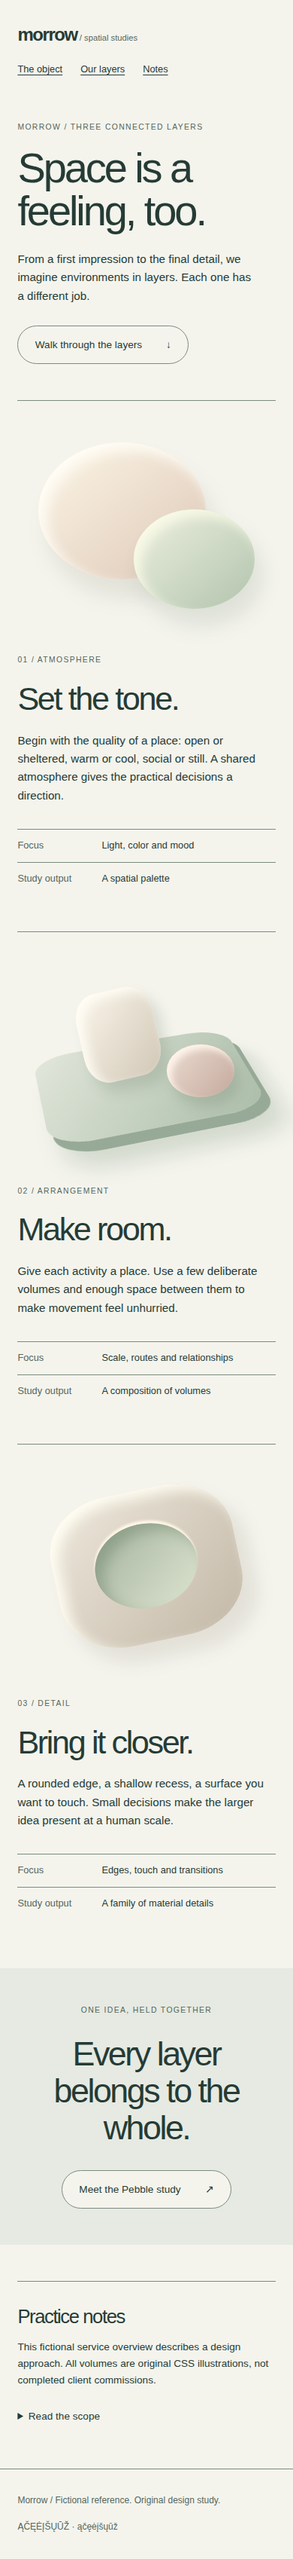
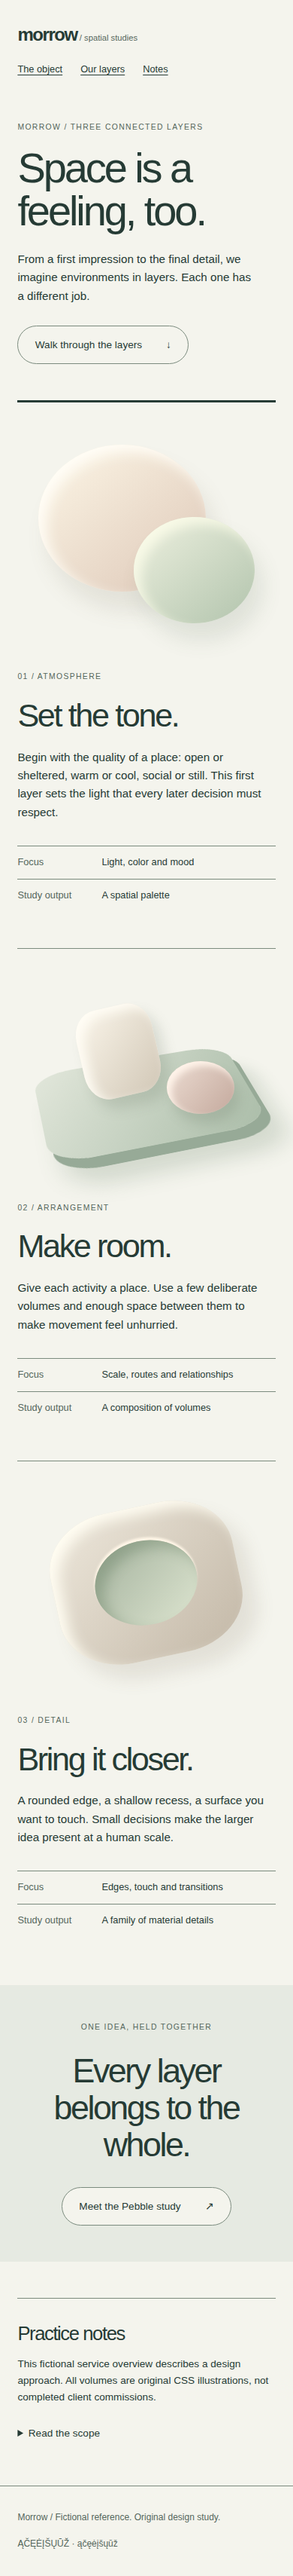
[S43] Pertvarka: Soft Spatial (#90)
* feat(S43): room light and indented layer staircase for soft-spatial

Claude-Session: https://claude.ai/code/session_01UNVqEgRscSKB9PdVUupPsp

* chore: regenerate canonical previews for soft-spatial

* docs(S43): evidence for soft-spatial redesign

Claude-Session: https://claude.ai/code/session_01UNVqEgRscSKB9PdVUupPsp

---------

diff --git a/styles/soft-spatial/reference/style.css b/styles/soft-spatial/reference/style.css
@@ -1,1 +1,1 @@
-*{box-sizing:border-box}html{scroll-behavior:smooth}body{margin:0;background:var(--color-background);color:var(--color-text);font:1rem/1.6 var(--font-body)}a{color:inherit;text-underline-offset:.25em}a:hover{color:var(--color-accent)}button,input,select{font:inherit}button,summary{cursor:pointer}button{color:var(--color-on-accent);background:var(--color-accent);border:1px solid var(--color-border);padding:.6rem 1rem}a,button,summary,input,select{touch-action:manipulation}:focus-visible{outline:3px solid var(--color-focus);outline-offset:4px}.skip{position:absolute;top:0;left:0;transform:translateY(-200%);padding:1rem;background:var(--color-background);z-index:99}.skip:focus{transform:none}h1,h2,h3,p,figure{margin:0}h1,h2,h3{font-family:var(--font-display);line-height:1.1;font-weight:400}img,svg{display:block;max-width:100%;height:auto}header,main,footer{min-width:0}nav{display:flex;gap:1.5rem;flex-wrap:wrap}details p{padding:1rem 0;max-width:65ch}summary{padding:.65rem 0}footer{display:flex;justify-content:space-between;gap:1rem;flex-wrap:wrap;padding:2rem 5vw;font-size:.75rem;color:var(--color-muted);border-top:1px solid var(--color-border)}@media(prefers-reduced-motion:reduce){html{scroll-behavior:auto}*,*::before,*::after{animation:none!important;transition:none!important}}header{display:flex;justify-content:space-between;align-items:center;gap:2rem;padding:2rem 5vw}.brand{font-size:1.5rem;letter-spacing:-.06em;font-weight:700;text-decoration:none}.brand span{font-size:.75rem;font-weight:400;letter-spacing:0;color:var(--color-muted)}nav{font-size:.85rem;gap:2rem}main{max-width:1500px;margin:auto}h1,h2{letter-spacing:-.055em}h1{font-size:clamp(3.5rem,6.3vw,6rem);line-height:1.02}h2{font-size:clamp(2.3rem,4vw,3.8rem);line-height:1.1}.eyebrow{font-size:.65rem;letter-spacing:.13em;color:var(--color-muted)}.pill{display:inline-flex;align-items:center;gap:2rem;border:1px solid var(--color-border);border-radius:2rem;padding:.85rem 1.4rem;text-decoration:none;font-size:.85rem;background:var(--color-background);color:var(--color-text)}.pill:hover{background:var(--color-surface)}.object-intro{display:grid;grid-template-columns:.9fr 1.3fr;gap:3rem;align-items:center;padding:4rem 5vw 3rem}.intro-copy h1{margin:1.3rem 0}.intro-copy>p:not(.eyebrow){max-width:34ch;font-size:1.05rem}.intro-copy .pill{margin-top:2rem}.object-stage{min-width:0;padding-top:1rem}.pebble{height:420px;position:relative;isolation:isolate;--shell:#eeeadf;--shade:#b7c6b7}.halo{position:absolute;width:85%;height:80%;left:8%;top:0;background:radial-gradient(ellipse,#e4e7d8 0%,transparent 70%);border-radius:50%}.stone{position:absolute;z-index:2;width:78%;height:61%;left:11%;top:15%;border-radius:49% 51% 44% 48%/49% 48% 52% 51%;background:linear-gradient(145deg,#fffef4 0%,var(--shell) 47%,#c9cdc0 85%);box-shadow:inset -15px -22px 24px #bac3b655,inset 12px 9px 22px #ffffffaa;transform:rotate(-12deg)}.stone:after{content:'';position:absolute;width:59%;height:51%;left:21%;top:19%;border-radius:50%;background:radial-gradient(ellipse at 60% 85%,#d4dec9 0%,#9cac98 58%,#728774 98%);box-shadow:inset 3px 14px 18px #536d5d55,0 -5px 5px #fffdf0,inset -5px -4px 10px #e7eddb}.shadow{position:absolute;width:66%;height:12%;left:19%;top:76%;background:#657866;opacity:.22;filter:blur(17px);border-radius:50%;transform:rotate(-9deg)}figcaption{display:flex;justify-content:space-between;gap:1rem;font-size:.65rem;color:var(--color-muted);padding:1.5rem 2rem}.form-notes{display:grid;grid-template-columns:1fr 1.2fr;gap:6rem;margin:4rem 5vw 6rem;padding-top:3rem;border-top:1px solid var(--color-border)}.form-notes h2{margin-top:1.5rem}.observations article{display:grid;grid-template-columns:2rem 1fr;gap:.3rem 1.5rem;padding:1.2rem 0}.observations span{font-size:.7rem;color:var(--color-muted)}.observations h3{font-size:1.3rem}.observations p{grid-column:2;font-size:.9rem;max-width:50ch;margin-top:.4rem}.material{display:grid;grid-template-columns:1.2fr 1fr;gap:5rem;align-items:center;padding:3rem 5vw 5rem}.material-window{height:320px;border-radius:50% 50% 45% 45%;position:relative;background:radial-gradient(ellipse,#e6e7de,transparent 70%)}.sample{position:absolute;width:45%;height:62%;border-radius:35%;box-shadow:inset 7px 7px 18px #ffffffbb,12px 25px 24px #57685822;transform:rotate(-18deg);background:linear-gradient(140deg,#e6eddf,#abbba7)}.sample-one{left:10%;top:10%}.sample-two{left:46%;top:31%;background:linear-gradient(140deg,#f2e0d7,#c7aca0);transform:rotate(13deg)}.material h2{margin:1.2rem 0}.material p:not(.eyebrow){max-width:42ch;font-size:.95rem}.material a{display:inline-block;margin-top:1.5rem;font-size:.85rem}.endnotes{display:grid;grid-template-columns:1fr 1.3fr;gap:4rem;margin:2rem 5vw 4rem;padding-top:2rem;border-top:1px solid var(--color-border)}.endnotes h2{font-size:1.6rem}.endnotes p,.endnotes details{font-size:.85rem;max-width:63ch}.endnotes details{margin-top:1rem}.layers-intro{padding:4rem 5vw 5rem;display:grid;grid-template-columns:1.3fr 1fr;gap:2rem 6rem;align-items:end}.layers-intro>.eyebrow{grid-column:1/-1}.layers-intro>div p{max-width:37ch}.layers-intro .pill{margin-top:1.7rem}.layer-index{margin:0 5vw}.layer{display:grid;grid-template-columns:1.2fr 1fr;gap:5rem;align-items:center;padding:3rem 0;border-top:1px solid var(--color-border)}.layer:nth-child(2) .layer-art{order:2}.layer-copy h2{margin:1.2rem 0}.layer-copy>p:not(.eyebrow){max-width:42ch;font-size:.95rem}dl{margin:2rem 0 0;font-size:.8rem}dl>div{display:grid;grid-template-columns:6rem 1fr;gap:1rem;padding:.7rem 0;border-top:1px solid var(--color-border)}dt{color:var(--color-muted)}dd{margin:0}.layer-art{height:350px;position:relative;isolation:isolate}.layer-art span,.layer-art i,.layer-art b{display:block;position:absolute}.atmosphere span{width:65%;height:65%;border-radius:50%;left:8%;top:8%;background:linear-gradient(140deg,#fdf7e7,#ddc7b7);box-shadow:inset 10px 10px 18px #fffdf6,12px 25px 28px #77735c22}.atmosphere i{width:47%;height:47%;border-radius:50%;left:45%;top:40%;background:linear-gradient(140deg,#eef1e0,#b2c4ad);box-shadow:inset 10px 10px 15px #ffffecbb,10px 22px 28px #566c5522}.arrangement{perspective:850px}.arrangement span{width:82%;height:61%;left:9%;top:29%;border-radius:20%;transform:rotateX(50deg) rotateZ(-15deg);background:linear-gradient(125deg,#e2e7db,#abbda9);box-shadow:6px 18px 0 #97aa97,16px 45px 30px #56715633}.arrangement i{width:30%;height:43%;left:24%;top:16%;border-radius:30%;background:linear-gradient(135deg,#fcf7ec,#d1c7b6);box-shadow:inset 8px 8px 15px #fffdf5,8px 15px 17px #64735d33;transform:rotate(-13deg)}.arrangement b{width:26%;height:25%;left:58%;top:42%;border-radius:50%;background:linear-gradient(130deg,#edddd3,#c4a99d);box-shadow:inset 6px 6px 10px #fff4ea,7px 13px 15px #64735d33}.detail span{width:72%;height:72%;left:14%;top:10%;border-radius:35%;background:linear-gradient(140deg,#eee8dc,#c3b8a7);box-shadow:inset 10px 10px 18px #fffdf2,15px 22px 24px #73634b22;transform:rotate(-12deg)}.detail i{width:40%;height:40%;left:30%;top:26%;border-radius:50%;background:linear-gradient(140deg,#a4b29e,#dce4cf);box-shadow:inset 10px 12px 17px #58715555,0 -4px 3px #fff6e7;transform:rotate(-12deg)}.connection{padding:5rem 5vw 6rem;text-align:center;background:var(--color-surface);margin:3rem 0 4rem}.connection h2{margin:1.5rem 0 2rem}.connection .pill{background:var(--color-background)}@media(max-width:1050px){.object-intro{gap:1rem}.pebble{height:360px}.form-notes{gap:3rem}.material,.layer{gap:3rem}.layers-intro{gap:2rem}.layer-art{height:300px}}@media(max-width:700px){header{align-items:start;flex-direction:column;padding:1.7rem 6vw;gap:1rem}.brand span{font-size:.7rem}nav{font-size:.8rem;gap:1.5rem}.object-intro{display:block;padding:2rem 6vw}.intro-copy h1{font-size:3.6rem}.intro-copy>p:not(.eyebrow){font-size:1rem;max-width:32ch}.pebble{height:310px;margin-top:2rem}.stone{width:84%;left:8%}.shadow{width:70%;left:18%}figcaption{padding:1rem 0;font-size:.6rem}.form-notes{display:block;margin:2rem 6vw 3rem;padding-top:2rem}.form-notes h2{font-size:2.5rem;margin-bottom:1rem}.observations article{gap:.4rem 1rem}.material{display:flex;flex-direction:column;padding:0 6vw 3rem;gap:2rem;align-items:stretch}.material-window{height:280px}.material h2{font-size:2.5rem}.endnotes{display:block;margin:2rem 6vw 3rem}.endnotes h2{margin-bottom:1rem}.layers-intro{display:block;padding:2rem 6vw 3rem}.layers-intro h1{font-size:3.5rem;margin:1rem 0 1.5rem}.layers-intro>div p{font-size:.95rem}.layer-index{margin:0 6vw}.layer{display:flex;flex-direction:column;gap:1.5rem;align-items:stretch;padding:2rem 0 3rem}.layer:nth-child(2) .layer-art{order:0}.layer-art{height:280px}.layer-copy h2{font-size:2.7rem}.connection{padding:3rem 6vw;margin:1rem 0 3rem}.connection h2{font-size:2.8rem}footer{padding:2rem 6vw}}
+*{box-sizing:border-box}html{scroll-behavior:smooth}body{margin:0;background:var(--color-background);color:var(--color-text);font:1rem/1.6 var(--font-body)}a{color:inherit;text-underline-offset:.25em}a:hover{color:var(--color-accent)}button,input,select{font:inherit}button,summary{cursor:pointer}button{color:var(--color-on-accent);background:var(--color-accent);border:1px solid var(--color-border);padding:.6rem 1rem}a,button,summary,input,select{touch-action:manipulation}:focus-visible{outline:3px solid var(--color-focus);outline-offset:4px}.skip{position:absolute;top:0;left:0;transform:translateY(-200%);padding:1rem;background:var(--color-background);z-index:99}.skip:focus{transform:none}h1,h2,h3,p,figure{margin:0}h1,h2,h3{font-family:var(--font-display);line-height:1.1;font-weight:400}img,svg{display:block;max-width:100%;height:auto}header,main,footer{min-width:0}nav{display:flex;gap:1.5rem;flex-wrap:wrap}details p{padding:1rem 0;max-width:65ch}summary{padding:.65rem 0}footer{display:flex;justify-content:space-between;gap:1rem;flex-wrap:wrap;padding:2rem 5vw;font-size:.75rem;color:var(--color-muted);border-top:1px solid var(--color-border)}@media(prefers-reduced-motion:reduce){html{scroll-behavior:auto}*,*::before,*::after{animation:none!important;transition:none!important}}header{display:flex;justify-content:space-between;align-items:center;gap:2rem;padding:2rem 5vw}.brand{font-size:1.5rem;letter-spacing:-.06em;font-weight:700;text-decoration:none}.brand span{font-size:.75rem;font-weight:400;letter-spacing:0;color:var(--color-muted)}nav{font-size:.85rem;gap:2rem}main{max-width:1500px;margin:auto}h1,h2{letter-spacing:-.055em}h1{font-size:clamp(3.5rem,6.3vw,6rem);line-height:1.02}h2{font-size:clamp(2.3rem,4vw,3.8rem);line-height:1.1}.eyebrow{font-size:.65rem;letter-spacing:.13em;color:var(--color-muted)}.pill{display:inline-flex;align-items:center;gap:2rem;border:1px solid var(--color-border);border-radius:2rem;padding:.85rem 1.4rem;text-decoration:none;font-size:.85rem;background:var(--color-background);color:var(--color-text)}.pill:hover{background:var(--color-surface)}.object-intro{display:grid;grid-template-columns:.9fr 1.3fr;gap:3rem;align-items:center;padding:4rem 5vw 3rem}.intro-copy h1{margin:1.3rem 0}.intro-copy>p:not(.eyebrow){max-width:34ch;font-size:1.05rem}.intro-copy .pill{margin-top:2rem}.object-stage{min-width:0;padding-top:1rem}.room{height:420px;position:relative;isolation:isolate;overflow:hidden;--shell:#eeeadf;background:linear-gradient(180deg,#eceee2 0%,#e4e9dc 62%,#dce2d3 62%,#e0e5d8 100%)}.halo{position:absolute;width:85%;height:80%;left:8%;top:0;background:radial-gradient(ellipse,#e4e7d8 0%,transparent 70%);border-radius:50%}.room .window{position:absolute;left:6%;top:9%;width:30%;height:44%;background:linear-gradient(120deg,#fffdf2,#f3f0df);border-radius:3px;box-shadow:0 0 50px #fffbe6}.room .beam{position:absolute;left:12%;top:34%;width:52%;height:44%;background:linear-gradient(150deg,rgba(255,252,236,.55),transparent 72%);clip-path:polygon(0 0,100% 40%,100% 100%,0 60%)}.room .floor{position:absolute;left:0;right:0;top:62%;height:1px;background:#b6c0b0}.stone{position:absolute;z-index:2;width:70%;height:56%;left:14%;top:18%;border-radius:49% 51% 44% 48%/49% 48% 52% 51%;background:linear-gradient(145deg,#fffef4 0%,var(--shell) 47%,#c9cdc0 85%);box-shadow:inset -15px -22px 24px #bac3b655,inset 12px 9px 22px #ffffffaa;transform:rotate(-12deg)}.stone:after{content:'';position:absolute;width:59%;height:51%;left:21%;top:19%;border-radius:50%;background:radial-gradient(ellipse at 60% 85%,#d4dec9 0%,#9cac98 58%,#728774 98%);box-shadow:inset 3px 14px 18px #536d5d55,0 -5px 5px #fffdf0,inset -5px -4px 10px #e7eddb}.shadow{position:absolute;width:78%;height:12%;left:24%;top:72%;background:#657866;opacity:.26;filter:blur(16px);border-radius:50%;transform:rotate(-4deg)}figcaption{display:flex;justify-content:space-between;gap:1rem;font-size:.65rem;color:var(--color-muted);padding:1.5rem 2rem}.form-notes{display:grid;grid-template-columns:1fr 1.2fr;gap:6rem;margin:4rem 5vw 6rem;padding-top:3rem;border-top:1px solid var(--color-border)}.form-notes h2{margin-top:1.5rem}.observations article{display:grid;grid-template-columns:2rem 1fr;gap:.3rem 1.5rem;padding:1.2rem 0}.observations span{font-size:.7rem;color:var(--color-muted)}.observations h3{font-size:1.3rem}.observations p{grid-column:2;font-size:.9rem;max-width:50ch;margin-top:.4rem}.material{display:grid;grid-template-columns:1.2fr 1fr;gap:5rem;align-items:center;padding:3rem 5vw 5rem}.material-window{height:320px;border-radius:50% 50% 45% 45%;position:relative;background:radial-gradient(ellipse,#e6e7de,transparent 70%)}.sample{position:absolute;width:45%;height:62%;border-radius:35%;box-shadow:inset 7px 7px 18px #ffffffbb,12px 25px 24px #57685822;transform:rotate(-18deg);background:linear-gradient(140deg,#e6eddf,#abbba7)}.sample-one{left:10%;top:10%}.sample-two{left:46%;top:31%;background:linear-gradient(140deg,#f2e0d7,#c7aca0);transform:rotate(13deg)}.material h2{margin:1.2rem 0}.material p:not(.eyebrow){max-width:42ch;font-size:.95rem}.material a{display:inline-block;margin-top:1.5rem;font-size:.85rem}.endnotes{display:grid;grid-template-columns:1fr 1.3fr;gap:4rem;margin:2rem 5vw 4rem;padding-top:2rem;border-top:1px solid var(--color-border)}.endnotes h2{font-size:1.6rem}.endnotes p,.endnotes details{font-size:.85rem;max-width:63ch}.endnotes details{margin-top:1rem}.layers-intro{padding:4rem 5vw 5rem;display:grid;grid-template-columns:1.3fr 1fr;gap:2rem 6rem;align-items:end}.layers-intro>.eyebrow{grid-column:1/-1}.layers-intro>div p{max-width:37ch}.layers-intro .pill{margin-top:1.7rem}.layer-index{margin:0 5vw}.layer{display:grid;grid-template-columns:1.2fr 1fr;gap:5rem;align-items:center;padding:3rem 0;border-top:1px solid var(--color-border)}.layer:nth-child(2) .layer-art{margin-left:14%}.layer:nth-child(3) .layer-art{margin-left:28%}.layer-primary{border-top:3px solid var(--color-text)}.layer-primary h2{font-size:clamp(3rem,5.2vw,5rem)}.layer-primary .layer-art{height:430px}.layer-copy h2{margin:1.2rem 0}.layer-copy>p:not(.eyebrow){max-width:42ch;font-size:.95rem}dl{margin:2rem 0 0;font-size:.8rem}dl>div{display:grid;grid-template-columns:6rem 1fr;gap:1rem;padding:.7rem 0;border-top:1px solid var(--color-border)}dt{color:var(--color-muted)}dd{margin:0}.layer-art{height:350px;position:relative;isolation:isolate}.layer-art span,.layer-art i,.layer-art b{display:block;position:absolute}.atmosphere span{width:65%;height:65%;border-radius:50%;left:8%;top:8%;background:linear-gradient(140deg,#fdf7e7,#ddc7b7);box-shadow:inset 10px 10px 18px #fffdf6,12px 25px 28px #77735c22}.atmosphere i{width:47%;height:47%;border-radius:50%;left:45%;top:40%;background:linear-gradient(140deg,#eef1e0,#b2c4ad);box-shadow:inset 10px 10px 15px #ffffecbb,10px 22px 28px #566c5522}.arrangement{perspective:850px}.arrangement span{width:82%;height:61%;left:9%;top:29%;border-radius:20%;transform:rotateX(50deg) rotateZ(-15deg);background:linear-gradient(125deg,#e2e7db,#abbda9);box-shadow:6px 18px 0 #97aa97,16px 45px 30px #56715633}.arrangement i{width:30%;height:43%;left:24%;top:16%;border-radius:30%;background:linear-gradient(135deg,#fcf7ec,#d1c7b6);box-shadow:inset 8px 8px 15px #fffdf5,8px 15px 17px #64735d33;transform:rotate(-13deg)}.arrangement b{width:26%;height:25%;left:58%;top:42%;border-radius:50%;background:linear-gradient(130deg,#edddd3,#c4a99d);box-shadow:inset 6px 6px 10px #fff4ea,7px 13px 15px #64735d33}.detail span{width:72%;height:72%;left:14%;top:10%;border-radius:35%;background:linear-gradient(140deg,#eee8dc,#c3b8a7);box-shadow:inset 10px 10px 18px #fffdf2,15px 22px 24px #73634b22;transform:rotate(-12deg)}.detail i{width:40%;height:40%;left:30%;top:26%;border-radius:50%;background:linear-gradient(140deg,#a4b29e,#dce4cf);box-shadow:inset 10px 12px 17px #58715555,0 -4px 3px #fff6e7;transform:rotate(-12deg)}.connection{padding:5rem 5vw 6rem;text-align:center;background:var(--color-surface);margin:3rem 0 4rem}.connection h2{margin:1.5rem 0 2rem}.connection .pill{background:var(--color-background)}@media(max-width:1050px){.object-intro{gap:1rem}.room{height:360px}.form-notes{gap:3rem}.material,.layer{gap:3rem}.layers-intro{gap:2rem}.layer-art{height:300px}.layer-primary .layer-art{height:360px}}@media(max-width:700px){header{align-items:start;flex-direction:column;padding:1.7rem 6vw;gap:1rem}.brand span{font-size:.7rem}nav{font-size:.8rem;gap:1.5rem}.object-intro{display:block;padding:2rem 6vw}.intro-copy h1{font-size:3.6rem}.intro-copy>p:not(.eyebrow){font-size:1rem;max-width:32ch}.room{height:310px;margin-top:2rem}.stone{width:84%;left:8%}.shadow{width:70%;left:18%}figcaption{padding:1rem 0;font-size:.6rem}.form-notes{display:block;margin:2rem 6vw 3rem;padding-top:2rem}.form-notes h2{font-size:2.5rem;margin-bottom:1rem}.observations article{gap:.4rem 1rem}.material{display:flex;flex-direction:column;padding:0 6vw 3rem;gap:2rem;align-items:stretch}.material-window{height:280px}.material h2{font-size:2.5rem}.endnotes{display:block;margin:2rem 6vw 3rem}.endnotes h2{margin-bottom:1rem}.layers-intro{display:block;padding:2rem 6vw 3rem}.layers-intro h1{font-size:3.5rem;margin:1rem 0 1.5rem}.layers-intro>div p{font-size:.95rem}.layer-index{margin:0 6vw}.layer{display:flex;flex-direction:column;gap:1.5rem;align-items:stretch;padding:2rem 0 3rem}.layer:nth-child(2) .layer-art,.layer:nth-child(3) .layer-art{margin-left:0}.layer-art{height:280px}.layer-primary .layer-art{height:300px}.layer-primary h2{font-size:2.9rem}.layer-copy h2{font-size:2.7rem}.connection{padding:3rem 6vw;margin:1rem 0 3rem}.connection h2{font-size:2.8rem}footer{padding:2rem 6vw}}

diff --git a/styles/soft-spatial/reference/alternate.html b/styles/soft-spatial/reference/alternate.html
@@ -1,1 +1,1 @@
-<!doctype html><html lang="en"><head><meta charset="utf-8"><meta name="viewport" content="width=device-width, initial-scale=1"><title>Soft Spatial — Layered practice overview</title><link rel="stylesheet" href="tokens.css"><link rel="stylesheet" href="style.css"></head><body class="b"><a class="skip" href="#main">Skip to content</a><header><a class="brand" href="index.html">morrow<span> / spatial studies</span></a><nav aria-label="Main"><a href="index.html#object">The object</a><a href="alternate.html">Our layers</a><a href="#notes">Notes</a></nav></header><main id="main"><section class="layers-intro"><p class="eyebrow">MORROW / THREE CONNECTED LAYERS</p><h1>Space is a<br>feeling, too.</h1><div><p>From a first impression to the final detail, we imagine environments in layers. Each one has a different job.</p><a class="pill" href="#layers">Walk through the layers <span aria-hidden="true">↓</span></a></div></section><section class="layer-index" id="layers" aria-label="Three practice layers"><article class="layer"><div class="layer-art atmosphere" aria-hidden="true"><span></span><i></i></div><div class="layer-copy"><p class="eyebrow">01 / ATMOSPHERE</p><h2>Set the tone.</h2><p>Begin with the quality of a place: open or sheltered, warm or cool, social or still. A shared atmosphere gives the practical decisions a direction.</p><dl><div><dt>Focus</dt><dd>Light, color and mood</dd></div><div><dt>Study output</dt><dd>A spatial palette</dd></div></dl></div></article><article class="layer"><div class="layer-art arrangement" aria-hidden="true"><span></span><i></i><b></b></div><div class="layer-copy"><p class="eyebrow">02 / ARRANGEMENT</p><h2>Make room.</h2><p>Give each activity a place. Use a few deliberate volumes and enough space between them to make movement feel unhurried.</p><dl><div><dt>Focus</dt><dd>Scale, routes and relationships</dd></div><div><dt>Study output</dt><dd>A composition of volumes</dd></div></dl></div></article><article class="layer"><div class="layer-art detail" aria-hidden="true"><span></span><i></i></div><div class="layer-copy"><p class="eyebrow">03 / DETAIL</p><h2>Bring it closer.</h2><p>A rounded edge, a shallow recess, a surface you want to touch. Small decisions make the larger idea present at a human scale.</p><dl><div><dt>Focus</dt><dd>Edges, touch and transitions</dd></div><div><dt>Study output</dt><dd>A family of material details</dd></div></dl></div></article></section><section class="connection"><p class="eyebrow">ONE IDEA, HELD TOGETHER</p><h2>Every layer<br>belongs to the whole.</h2><a class="pill" href="index.html#object">Meet the Pebble study <span aria-hidden="true">↗</span></a></section><section class="endnotes" id="notes"><h2>Practice notes</h2><div><p>This fictional service overview describes a design approach. All volumes are original CSS illustrations, not completed client commissions.</p><details><summary>Read the scope</summary><p>Three connected areas: atmosphere, arrangement and detail. The named outputs explain the demonstration content; no enquiry is submitted and no service is booked.</p></details></div></section></main><footer><p>Morrow / Fictional reference. Original design study.</p><p lang="lt">ĄČĘĖĮŠŲŪŽ · ąčęėįšųūž</p></footer></body></html>
+<!doctype html><html lang="en"><head><meta charset="utf-8"><meta name="viewport" content="width=device-width, initial-scale=1"><title>Soft Spatial — Layered practice overview</title><link rel="stylesheet" href="tokens.css"><link rel="stylesheet" href="style.css"></head><body class="b"><a class="skip" href="#main">Skip to content</a><header><a class="brand" href="index.html">morrow<span> / spatial studies</span></a><nav aria-label="Main"><a href="index.html#object">The object</a><a href="alternate.html">Our layers</a><a href="#notes">Notes</a></nav></header><main id="main"><section class="layers-intro"><p class="eyebrow">MORROW / THREE CONNECTED LAYERS</p><h1>Space is a<br>feeling, too.</h1><div><p>From a first impression to the final detail, we imagine environments in layers. Each one has a different job.</p><a class="pill" href="#layers">Walk through the layers <span aria-hidden="true">↓</span></a></div></section><section class="layer-index" id="layers" aria-label="Three practice layers"><article class="layer layer-primary"><div class="layer-art atmosphere" aria-hidden="true"><span></span><i></i></div><div class="layer-copy"><p class="eyebrow">01 / ATMOSPHERE</p><h2>Set the tone.</h2><p>Begin with the quality of a place: open or sheltered, warm or cool, social or still. This first layer sets the light that every later decision must respect.</p><dl><div><dt>Focus</dt><dd>Light, color and mood</dd></div><div><dt>Study output</dt><dd>A spatial palette</dd></div></dl></div></article><article class="layer"><div class="layer-art arrangement" aria-hidden="true"><span></span><i></i><b></b></div><div class="layer-copy"><p class="eyebrow">02 / ARRANGEMENT</p><h2>Make room.</h2><p>Give each activity a place. Use a few deliberate volumes and enough space between them to make movement feel unhurried.</p><dl><div><dt>Focus</dt><dd>Scale, routes and relationships</dd></div><div><dt>Study output</dt><dd>A composition of volumes</dd></div></dl></div></article><article class="layer"><div class="layer-art detail" aria-hidden="true"><span></span><i></i></div><div class="layer-copy"><p class="eyebrow">03 / DETAIL</p><h2>Bring it closer.</h2><p>A rounded edge, a shallow recess, a surface you want to touch. Small decisions make the larger idea present at a human scale.</p><dl><div><dt>Focus</dt><dd>Edges, touch and transitions</dd></div><div><dt>Study output</dt><dd>A family of material details</dd></div></dl></div></article></section><section class="connection"><p class="eyebrow">ONE IDEA, HELD TOGETHER</p><h2>Every layer<br>belongs to the whole.</h2><a class="pill" href="index.html#object">Meet the Pebble study <span aria-hidden="true">↗</span></a></section><section class="endnotes" id="notes"><h2>Practice notes</h2><div><p>This fictional service overview describes a design approach. All volumes are original CSS illustrations, not completed client commissions.</p><details><summary>Read the scope</summary><p>Three connected areas: atmosphere, arrangement and detail. The named outputs explain the demonstration content; no enquiry is submitted and no service is booked.</p></details></div></section></main><footer><p>Morrow / Fictional reference. Original design study.</p><p lang="lt">ĄČĘĖĮŠŲŪŽ · ąčęėįšųūž</p></footer></body></html>

diff --git a/styles/soft-spatial/reference/index.html b/styles/soft-spatial/reference/index.html
@@ -1,1 +1,1 @@
-<!doctype html><html lang="en"><head><meta charset="utf-8"><meta name="viewport" content="width=device-width, initial-scale=1"><title>Soft Spatial — Single ambient object</title><link rel="stylesheet" href="tokens.css"><link rel="stylesheet" href="style.css"></head><body class="a"><a class="skip" href="#main">Skip to content</a><header><a class="brand" href="index.html">morrow<span> / spatial studies</span></a><nav aria-label="Main"><a href="index.html#object">The object</a><a href="alternate.html">Our layers</a><a href="#notes">Notes</a></nav></header><main id="main"><section class="object-intro" id="object"><div class="intro-copy"><p class="eyebrow">STUDY 01 / AMBIENT OBJECT</p><h1>A softer<br>place to land.</h1><p>A quiet light for the space between work and rest. An imagined object, shaped around a gentle pause.</p><a class="pill" href="#form">Explore the form <span aria-hidden="true">↘</span></a></div><figure class="object-stage"><div class="pebble" aria-hidden="true"><div class="halo"></div><div class="stone"></div><div class="shadow"></div></div><figcaption><span>01 / THE PEBBLE</span><span>Original CSS form study</span></figcaption></figure></section><section class="form-notes" id="form"><div><p class="eyebrow">FORM / LIGHT / ATMOSPHERE</p><h2>Small presence.<br>Room to breathe.</h2></div><div class="observations"><article><span>01</span><h3>Rounded by light</h3><p>A continuous soft edge catches a pale highlight. The shallow opening gives the form a direction without a hard front.</p></article><article><span>02</span><h3>Grounded in space</h3><p>A broad contact shadow locates the object. The surrounding field stays open so the silhouette remains the focus.</p></article><article><span>03</span><h3>Quiet by intention</h3><p>No rotation, loading sequence or moving camera. The whole study is available in one calm view.</p></article></div></section><section class="material"><div class="material-window" aria-hidden="true"><div class="sample sample-one"></div><div class="sample sample-two"></div></div><div><p class="eyebrow">A MATERIAL CONVERSATION</p><h2>Warm surface.<br>Cool shadow.</h2><p>A chalk-like shell and a muted sage interior make depth visible. These are illustrated materials, not claims about a manufactured object.</p><a href="alternate.html">See how the layers work together →</a></div></section><section class="endnotes" id="notes"><h2>About this study</h2><div><p>Morrow is a fictional spatial practice. The Pebble is an original CSS illustration; no product, light output or material specification is offered.</p><details><summary>Read the form note</summary><p>Gradients describe the surface and a static cast shadow describes contact. The reference needs no WebGL, external model or motion to explain its depth.</p></details></div></section></main><footer><p>Morrow / Fictional reference. Original design study.</p><p lang="lt">ĄČĘĖĮŠŲŪŽ · ąčęėįšųūž</p></footer></body></html>
+<!doctype html><html lang="en"><head><meta charset="utf-8"><meta name="viewport" content="width=device-width, initial-scale=1"><title>Soft Spatial — Single ambient object</title><link rel="stylesheet" href="tokens.css"><link rel="stylesheet" href="style.css"></head><body class="a"><a class="skip" href="#main">Skip to content</a><header><a class="brand" href="index.html">morrow<span> / spatial studies</span></a><nav aria-label="Main"><a href="index.html#object">The object</a><a href="alternate.html">Our layers</a><a href="#notes">Notes</a></nav></header><main id="main"><section class="object-intro" id="object"><div class="intro-copy"><p class="eyebrow">STUDY 01 / AMBIENT OBJECT</p><h1>A softer<br>place to land.</h1><p>A quiet light for the space between work and rest. An imagined object, shaped around a gentle pause.</p><a class="pill" href="#form">Explore the form <span aria-hidden="true">↘</span></a></div><figure class="object-stage"><div class="room" aria-hidden="true"><div class="window"></div><div class="beam"></div><div class="floor"></div><div class="halo"></div><div class="stone"></div><div class="shadow"></div></div><figcaption><span>01 / THE PEBBLE</span><span>Lit from the left window · original CSS study</span></figcaption></figure></section><section class="form-notes" id="form"><div><p class="eyebrow">FORM / LIGHT / ATMOSPHERE</p><h2>Small presence.<br>Room to breathe.</h2></div><div class="observations"><article><span>01</span><h3>The window does the lighting</h3><p>Light enters from the left wall. The upper edge of the shell takes the highlight, and the lower curve falls into shade.</p></article><article><span>02</span><h3>The shadow sets it on the floor</h3><p>A long, soft shadow runs to the right and fades before the far wall, so the object reads as resting rather than hanging.</p></article><article><span>03</span><h3>Nothing moves to be seen</h3><p>No rotation, loading sequence or moving camera. A viewer can compare the edge against the light in one still view.</p></article></div></section><section class="material"><div class="material-window" aria-hidden="true"><div class="sample sample-one"></div><div class="sample sample-two"></div></div><div><p class="eyebrow">A MATERIAL CONVERSATION</p><h2>Warm surface.<br>Cool shadow.</h2><p>A chalk-like shell and a muted sage interior make depth visible. These are illustrated materials, not claims about a manufactured object.</p><a href="alternate.html">See how the layers work together →</a></div></section><section class="endnotes" id="notes"><h2>About this study</h2><div><p>Morrow is a fictional spatial practice. The Pebble is an original CSS illustration; no product, light output or material specification is offered.</p><details><summary>Read the form note</summary><p>Gradients describe the surface and a static cast shadow describes contact. The reference needs no WebGL, external model or motion to explain its depth.</p></details></div></section></main><footer><p>Morrow / Fictional reference. Original design study.</p><p lang="lt">ĄČĘĖĮŠŲŪŽ · ąčęėįšųūž</p></footer></body></html>

diff --git a/docs/evidence/S43.md b/docs/evidence/S43.md
@@ -1,0 +1,69 @@
+# S43 — įrodymai: Soft Spatial (pertvarka)
+
+Autorius: Claude Haiku 5.5 / session-S43. Šaka `task/s43-soft-spatial`.
+
+## Kas pakeista
+
+- A variantas (`reference/index.html`): vienas Pebble objektas dabar stovi mažame kambaryje – užpakalinė siena, langas kairėje su šviesos spinduliu, grindų linija ir šešėlis, nukrintantis į dešinę. Tai antras šviesos šaltinis ir šešėlio struktūra, todėl objektas yra erdvėje, o ne ant baltos.
+- A variantas: trys pastabos perrašytos taip, kad sakytų, ką objektas daro („Langas apšviečia“, „Šešėlis guli ant grindų“, „Nieko nejuda, kad būtų matoma“), o ne tik kuria nuotaiką. Iliustracijos antraštė nurodo šviesos šaltinį.
+- B variantas (`reference/alternate.html`, `style.css`): trys sluoksniai dabar sudaro įstrižai nusileidžiantį laiptelį. Pirmasis sluoksnis („Set the tone.“) yra pagrindinis – didesnė iliustracija, stipresnė antraštė, viršuje storesnė linija. Antras ir trečias sluoksniai įtraukiami kiekvienas giliau.
+- `style.md` ir `layouts.json` atnaujinti pagal naujas kompozicijas (A – kambario scena, B – pagrindinis pirmas sluoksnis ir laiptelis).
+- Nauji rasteriniai failai ir trečiųjų šalių asset'ai nepridėti; visi vaizdai – CSS formos.
+
+## Komandos ir rezultatai
+
+| Komanda | Rezultatas |
+|---|---|
+| `npm run validate` | PASS (įspėjimai: `footer-boilerplate` apima ir soft-spatial – P22 valymo užduotis; `shared-asset` cinematic-photo/field-notes – ne šio stiliaus) |
+| `npm run build -- --style soft-spatial` | PASS (39 stiliai, 3 išvestys, 39 ready) |
+| `node --test tests/*.test.mjs` | 87/87 PASS |
+| Kanoninis workflow `previews.yml` (ref `main`, branch `task/s43-soft-spatial`, style `soft-spatial`), run `39813917209` | bot'as pateikė commit'ą `1a71d0d` su visais keturiais PNG ir `catalog/` atnaujinimais |
+| `npm run check -- --style soft-spatial` | not_run lokaliai – tikrinimas reikalauja kanoninės aplinkos (Ubuntu 24.04, Node 24.19.0); PNG sugeneruoti kanoniniame workflow |
+| `npm run test:browser -- --style soft-spatial` | not_run lokaliai – naršyklės vartai nepaleisti ne kanoniniame host'e |
+| Lokali vizualinė patikra (ne kanoninė): headless shell, `file://`, 1440 ir 390 pločiai | horizontalaus slinkimo perteklius 0 abiem puslapiams |
+
+## Keturių kanoninių PNG peržiūra
+
+Peržiūrėta `preview.png`, `preview-mobile.png`, `preview-alt.png`, `preview-alt-mobile.png` po kanoninio paleidimo (`1a71d0d`).
+
+- A desktop: kambario scena su langu kairėje, grindų linija ir šešėliu į dešinę; trys pastabos; dvi medžiagų formos; įrašas.
+- A mobile: kambarys telefone išlieka skaitomas, šešėlis lieka viduje, pastabos eina po iliustracijos.
+- B desktop: pagrindinis sluoksnis aiškiai stipresnis už kitus du; antras ir trečias įtraukti; kiekviename – „Focus“ ir „Study output“ apibrėžtys.
+- B mobile: sluoksniai stojasi į vertikalią seką kaip sąmoningas perstatymas; įtrauka telefone panaikinama, bet tvarka ir hierarchija išlieka.
+
+## Rubrika (`core/quality-rubric.md`)
+
+Artimiausi kaimynai, palyginti su tos pačios peržiūros PNG: `light-environments` (tamsi, WebGL 3D objektai, vertikalus žodžio ženklas, violetinis akcentas) ir `twilight-expedition` (tamsi navy, žemų poligonų reljefas, auksinis akcentas, trijų kolonų ritmas).
+
+| Kriterijus | Balas | Priežastis |
+|---|---|---|
+| Atpažinimas | 2 | Minkšti tūriai, difuzinis šviesos kryptinis apšvietimas, kontaktinis šešėlis, įdubusi anga Pebble formoje, sage/chalk/blush medžiagų šeima – visi matomi A ir B. |
+| Skirtumas nuo kaimynų | 2 | Palyginimas su `light-environments` ir `twilight-expedition`: šviesi, o ne tamsi paletė; CSS formos, o ne WebGL ar poligoninis reljefas; kambario scena ir laiptelio sluoksniai, o ne centrinis 3D objektas ar trijų kolonų ritmas. |
+| A/B skirtumas | 2 | A – vienas objektas kambaryje su vieno objekto navigacija; B – trys įtraukti sluoksniai su pagrindiniu pirmu ir apibrėžčių išvestimis. Skirtingos kompozicija ir turinio užduotis, bendras parašas. |
+| Hierarchija | 2 | h1, eyebrow, pastabų antraštės, iliustracijos antraštė ir apibrėžtys turi aiškius vaidmenis ir skaitymo tvarką. |
+| Mobile | 2 | A ir B reflow sąmoningai: iliustracija po įvado, tekstas po vaizdo; mygtukai ir nuorodos veikia; be horizontalaus slinkimo lokaliai. |
+| Adaptability | 2 | `style.md` nurodo, kaip pritaikyti vieną šviesos kryptį, kaip keisti medžiagų paletę ir kaip išlaikyti objekto/sluoksnių skirtumą be WebGL. |
+
+**Iš viso 12/12**, be nulio; atpažinimas ir skirtumas nuo kaimyno – 2.
+
+Vertinimą atliko šios užduoties vykdytojas, ne nepriklausomas peržiūrėtojas.
+
+## Invariantai (3–5)
+
+1. Vienas šviesos kryptis: langas kairėje, šešėlis į dešinę A ir kiekvienas sluoksnis su tuo pačiu apšvietimu B.
+2. Kiekviena forma turi kontaktinį šešėlį ir grindų ar paviršiaus ribą.
+3. Tekstas lieka plokščias ir tamsus, nesiskiria kaip reljefinis objektas.
+4. B visada turi vieną pagrindinį sluoksnį, o kiti du yra įtraukti žemyn.
+
+## Anti-pattern'ai (tiksliai 3)
+
+1. Vienas pastelinis objektas centre be erdvės ir šešėlio (ant baltos).
+2. Trys vienodi „Rounded by light“ tipo punktai, kurie nieko nedaro.
+3. Vienodi sluoksniai be pagrindinio ir be įtraukos, kurie išsilygina į kortelių eilę.
+
+## Apribojimai
+
+- `npm run check` ir `npm run test:browser` nebuvo paleisti lokaliai; PNG generuoti kanoniniame workflow. Kanoninio `check` rezultatas – not_run, kol jo nepatvirtina kanoninis vykdytojas.
+- B mobile: laiptelio įtrauka telefone panaikinama sąmoningai; tai įrašyta `style.md` ir `layouts.json`.
+- Duomenys ir pavyzdžiai iliustraciniai; tai nurodyta puslapio pastabose.
+- Automatiniai patikrinimai nėra pilnas WCAG patikrinimas.

diff --git a/styles/soft-spatial/style.md b/styles/soft-spatial/style.md
@@ -11,7 +11,7 @@ density: "sparse"
 image_dependency: "low"
 motion_level: "subtle"
 complexity: "low"
-signature: {"composition": "One softly lit sculptural object dominates A; three sequential spatial layers organize B.", "typography": "Rounded-feeling plain system sans display, open line spacing and small measured object labels.", "navigation": "Visible object/layers links, anchored reading routes and native scope notes.", "content_rhythm": "Large object stage and fine form observations versus alternating layered service volumes and output records.", "imagery": "Original static CSS clay forms with diffuse highlights, recessed openings and grounded contact shadows.", "color_and_material": "Chalk, sage and pale blush material studies against an airy warm background and dark green text.", "interaction": "Real page and section links, visible focus and working native disclosures.", "motion": "Still spatial composition; no perpetual float, camera orbit or required WebGL."}
+signature: {"composition": "One sculptural object in a lit room dominates A; three indented layers, led by a primary first layer, organize B.", "typography": "Rounded-feeling plain system sans display, open line spacing and small measured object labels.", "navigation": "Visible object/layers links, anchored reading routes and native scope notes.", "content_rhythm": "Large object stage and fine form observations versus alternating layered service volumes and output records.", "imagery": "Original static CSS clay forms with diffuse highlights, recessed openings and grounded contact shadows.", "color_and_material": "Chalk, sage and pale blush material studies against an airy warm background and dark green text.", "interaction": "Real page and section links, visible focus and working native disclosures.", "motion": "Still spatial composition; no perpetual float, camera orbit or required WebGL."}
 status: "ready"
 ---
 
@@ -35,15 +35,15 @@ Semantic tokens define the page, supporting surface, readable foreground, second
 
 ## Layout A
 
-Open with a visible practice name and a compact navigation. A short invitation occupies the left of the first stage while one large Pebble form occupies the right. Its caption identifies the work as a CSS study. A form-observation section changes to three restrained notes, then two enlarged material samples introduce surface and shadow. Finish with scope information and a native disclosure. This is a focused object presentation, not a general catalogue or a row of interchangeable product cards.
+Open with a visible practice name and a compact navigation. A short invitation sits left of the first stage, where one large Pebble stands in a small room. A window lights it from the left, a floor line grounds it, and its shadow falls to the right. The caption names the window as the light source. Three restrained notes then describe what the object does in that light, not only its mood. Two enlarged material samples follow, with scope information and a native disclosure. This is a focused object presentation, not a general catalogue or a row of interchangeable product cards.
 
 ## Layout B
 
-Start with a broad typographic introduction and an anchored route through the practice. Three horizontal layers each combine an original spatial vignette with a distinct service purpose and definition-list output. Atmosphere uses overlapping light discs, arrangement uses raised volumes, and detail uses a recessed rounded surface. Alternate their visual emphasis before a generous closing statement and notes. This sequential explanation of process differs from A’s singular hero object and close observations.
+Start with a broad typographic introduction and an anchored route through the practice. Three layers step down the page as an indented staircase. The first layer, Atmosphere, is primary: its vignette is the largest and its heading the strongest, because the light it sets governs the other two. Arrangement and Detail follow, each indented further. Arrangement uses raised volumes and Detail a recessed rounded surface, and every layer ends with a definition-list output. A generous closing statement and notes follow. This sequential explanation differs from A’s singular hero object and close observations.
 
 ## Imagery
 
-All geometry is original code-authored CSS artwork. The Pebble uses an elliptical shell, a recessed opening and a broad soft contact shadow; the practice layers use discs, platforms and rounded blocks under related lighting. Decorative artwork is hidden from assistive reading and paired with meaningful adjacent prose. No external model, photograph, font or texture is loaded, so the asset registry is empty. Never substitute a grey missing-image frame or describe these illustrative surfaces as verified real materials.
+All geometry is original code-authored CSS artwork. The Pebble sits in a small room with a window glow, a floor line and an offset contact shadow; its shell is elliptical with a recessed opening. The practice layers use discs, platforms and rounded blocks under the same light direction. Decorative artwork is hidden from assistive reading and paired with meaningful adjacent prose. No external model, photograph, font or texture is loaded, so the asset registry is empty. Never substitute a grey missing-image frame or describe these illustrative surfaces as verified real materials.
 
 ## Navigation and interaction
 
